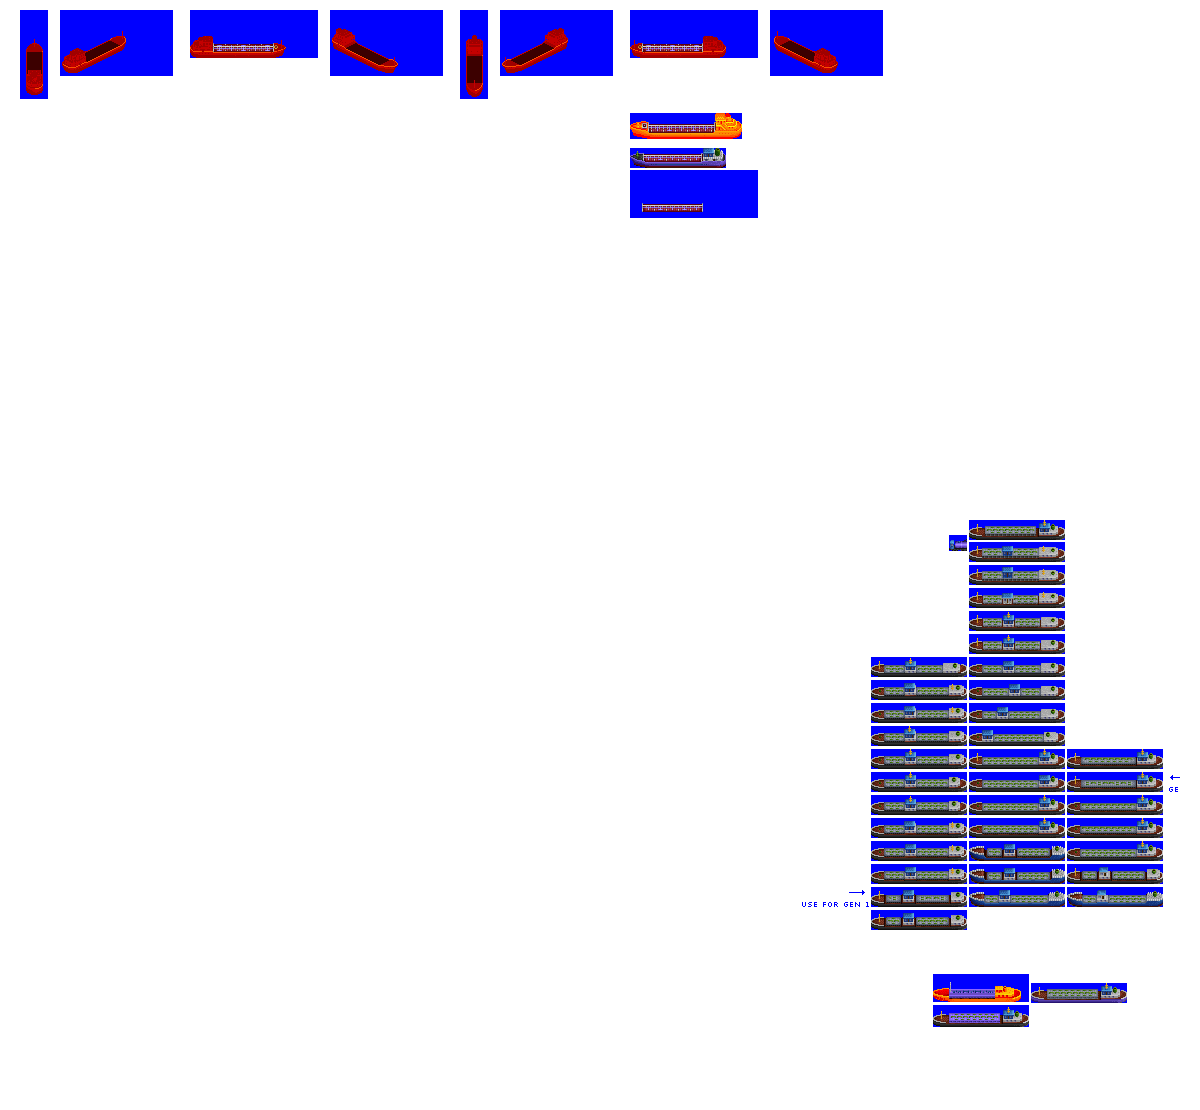
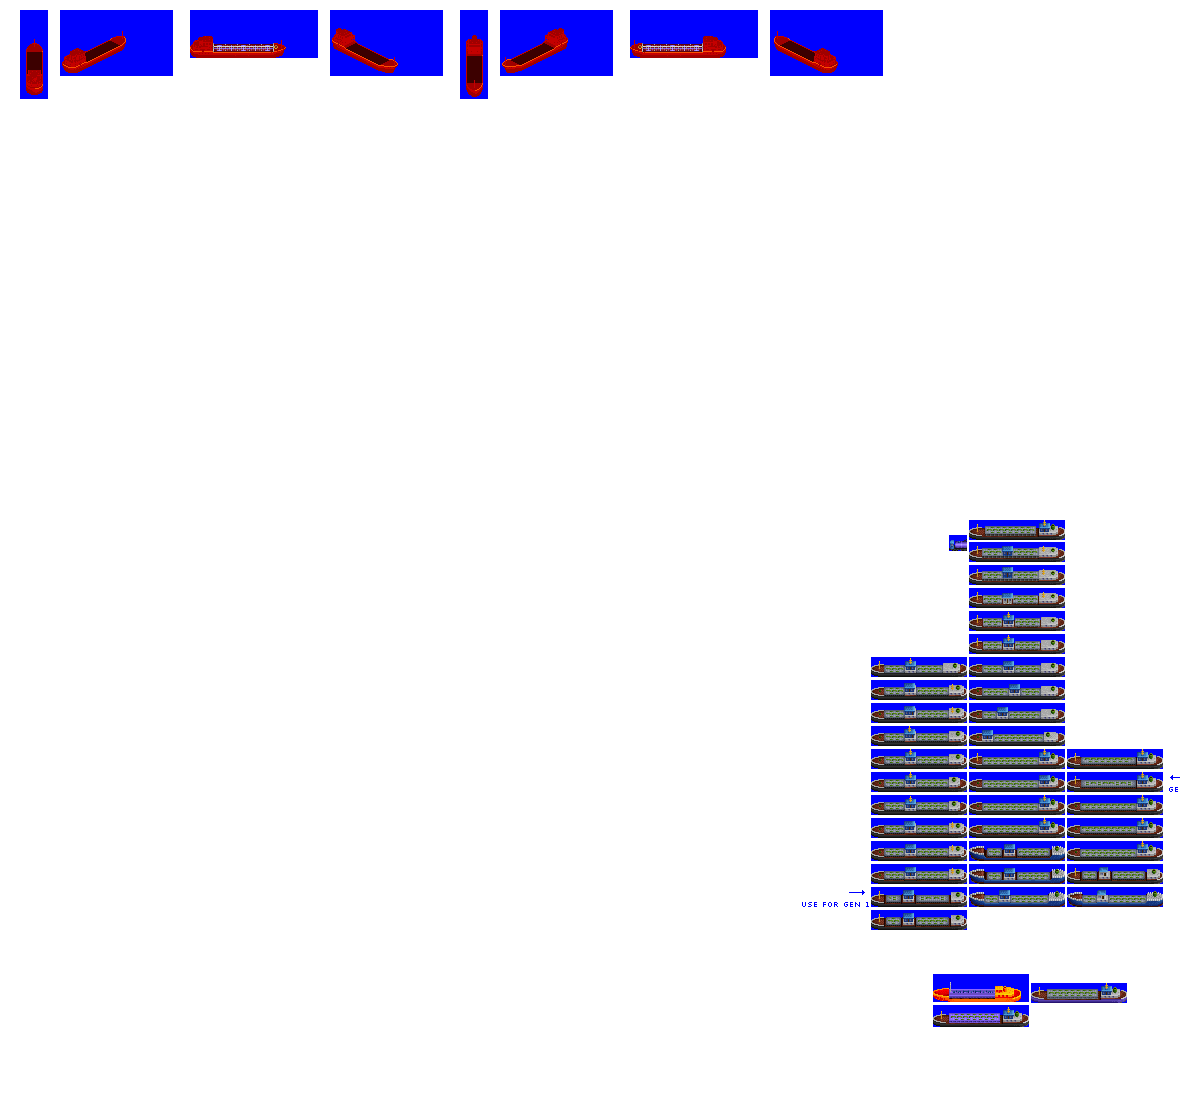
Change: sprites complete for gen 3C Tanker Ship

Changed region(s): [[0.5242, 0.0919, 0.6475, 0.2144]]

diff --git a/src/vehicles/tanker_ships.py b/src/vehicles/tanker_ships.py
@@ -32,7 +32,7 @@ def main():
         hull="ShipHouseRear",
         str_type_info="SMALL_TANKER_COASTAL_INLAND",
         effect_type="EFFECT_SPRITE_DIESEL",
-        sprites_complete=False,
+        sprites_complete=True,
     )
 
     ship = TankerShip(
